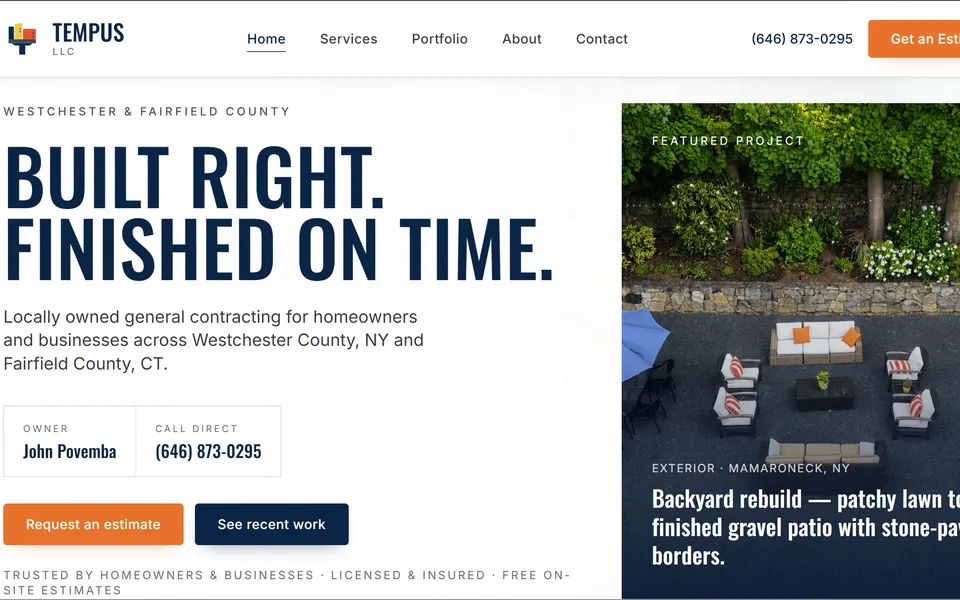
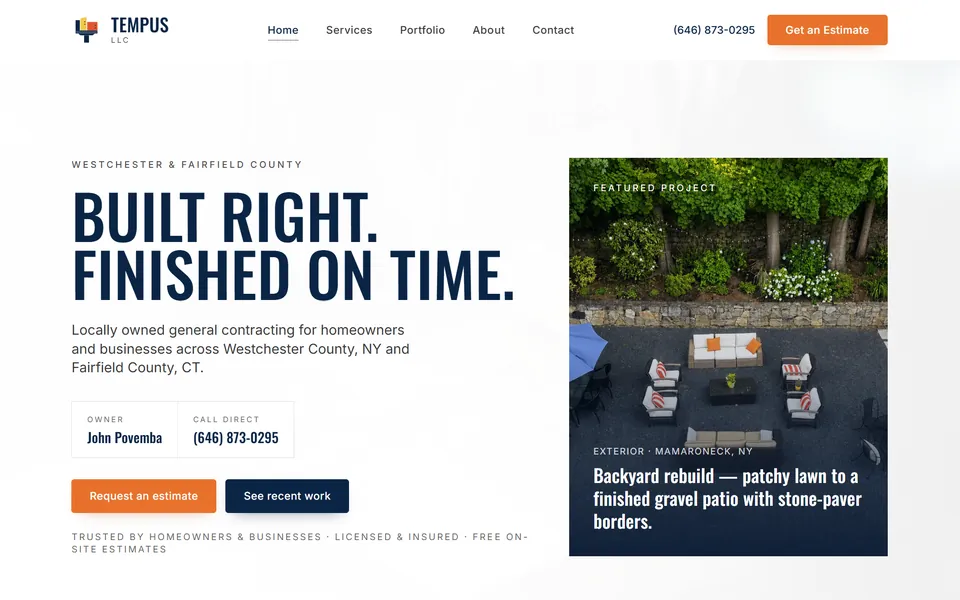
Add project screenshots

diff --git a/script.js b/script.js
@@ -164,7 +164,7 @@ const projects = {
 
       <figure class="case-shot">
         <a href="https://www.tempusnow.net/" target="_blank" rel="noopener">
-          <img src="images/tempus-home.webp" width="1600" height="803" loading="lazy"
+          <img src="images/tempus-home.webp" width="1600" height="1103" loading="lazy"
                alt="Tempus LLC homepage: headline, owner and direct phone number, estimate buttons, and a featured backyard project" />
         </a>
         <figcaption>The homepage: a clear promise, the owner's name and direct line up front, and a featured project as proof.</figcaption>
